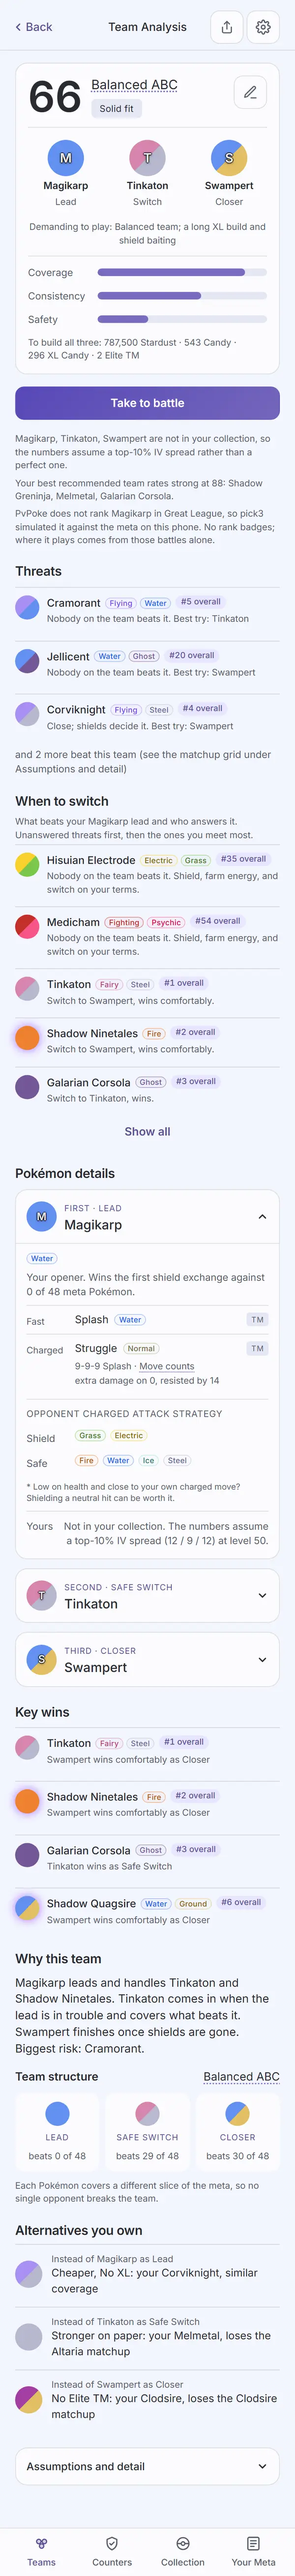
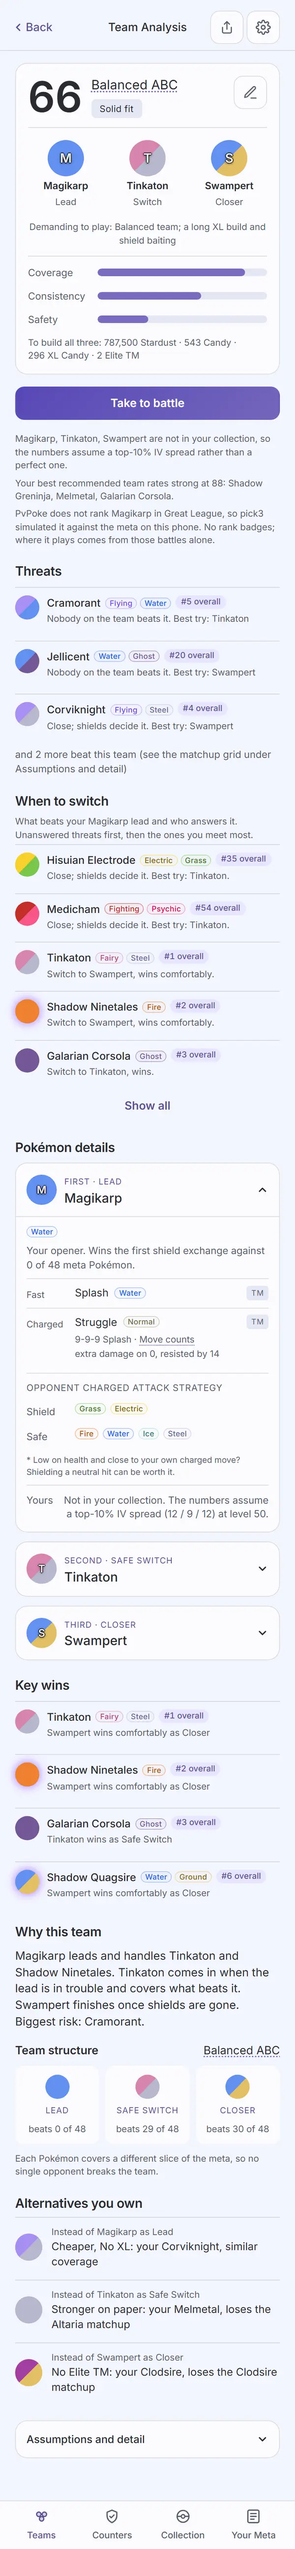
Design: record one meaning of unanswered on Team Analysis
analysis.md (still unsigned): a findings row for the two readings of
"unanswered" and its resolution in 0c42a35, When to switch's close lines in
the 14, 14b and 14c table rows, the renamed engine test file, and the fresh
check results. Re-converted 14-custom-team, 14b-custom-unranked and
14c-shared-team from the new web:audit run; every other Team Analysis and
Teams capture converted byte for byte identical.

Claude-Session: https://claude.ai/code/session_01QpDSW9ZhLWToL3VMBP1mJq

diff --git a/docs/design/audits/analysis.md b/docs/design/audits/analysis.md
@@ -31,7 +31,7 @@ full-page pairs and `analysis-confirm` changed with the revision and were re-con
 `analysis-not-found` re-converted byte for byte identical to the earlier image. The final fix
 wave (after the final review) re-ran `web:audit` and re-converted `14-custom-team`,
 `14b-custom-unranked` and `14c-shared-team` (the Threats order, the count's pointer to the
-matchup grid, and "Biggest risk" under Why this team); `03-team-detail`, `analysis-confirm` and
+matchup grid, "Biggest risk" under Why this team, and When to switch's close lines); `03-team-detail`, `analysis-confirm` and
 `analysis-not-found` re-converted byte for byte identical and were left as they were. `03-team-detail`,
 `14-custom-team`, `14b-custom-unranked` and `14c-shared-team` are full-page shots
 (`captureBeyondViewport: false`, the same rule Teams and Build use so the fixed tab bar lands at
@@ -41,9 +41,9 @@ hero card; a short Empty state).
 | State | Dark | Light |
 | --- | --- | --- |
 | `03-team-detail`: a recommended team. The hero card: "88" alone, the "Balanced ABC" term and the "Strong fit" tag beside it, the Edit pencil; Shadow Greninja and Galarian Corsola on two lines each, Melmetal on one, the three roles on one line; the difficulty line; five bars (Coverage, Consistency, Safety, Affordable empty, Accessibility). Take to battle under the card; Threats (one row, Hisuian Electrode, no count: nothing else beats the whole team); When to switch (five rows, none repeating Hisuian Electrode, then Show all); Pokémon details with the lead open and its "+1 more"; Key wins as rows; Why this team with the Team structure tiles and no breakdown sentence; Alternatives; Assumptions open with the matchup grid (full page) | ![](img/03-team-detail-dark.webp) | ![](img/03-team-detail-light.webp) |
-| `14-custom-team`: a hand-built team of species you don't own. Three bars and "To build all three: 723,500 Stardust · 593 Candy · 182 XL Candy · 2 Elite TM." inside the card; under Take to battle the hypothetical-IV note, the best-recommended-team note and the chosen-moves note; Threats with the two nobody on the team beats first (Cramorant #5, Jellicent #20), then the close one (Corviknight #4, "Close; shields decide it"), and "and 1 more beats this team (see the matchup grid under Assumptions and detail)"; Why this team ends "Biggest risk: Cramorant." (full page) | ![](img/14-custom-team-dark.webp) | ![](img/14-custom-team-light.webp) |
-| `14b-custom-unranked`: a custom team led by Magikarp, the PvPoke-unranked note ("PvPoke does not rank Magikarp in Great League...") in the same notes block; Threats in the same order as `14-custom-team` (Cramorant, Jellicent, then Corviknight) and "and 2 more beat this team (see the matchup grid under Assumptions and detail)" (full page) | ![](img/14b-custom-unranked-dark.webp) | ![](img/14b-custom-unranked-light.webp) |
-| `14c-shared-team`: a team opened from a link, "Shared team link. IVs assumed for Azumarill, Tinkaton; the rest are yours." first in the notes block; Threats lists the two nobody on the team beats (Corviknight #4, Jellicent #20), then the close Cramorant (#5), and "and 1 more beats this team (see the matchup grid under Assumptions and detail)", the one being the close Feraligatr (#19), which Jellicent displaced from the three; When to switch now starts at Feraligatr, since Jellicent is under Threats (full page) | ![](img/14c-shared-team-dark.webp) | ![](img/14c-shared-team-light.webp) |
+| `14-custom-team`: a hand-built team of species you don't own. Three bars and "To build all three: 723,500 Stardust · 593 Candy · 182 XL Candy · 2 Elite TM." inside the card; under Take to battle the hypothetical-IV note, the best-recommended-team note and the chosen-moves note; Threats with the two nobody on the team beats first (Cramorant #5, Jellicent #20), then the close one (Corviknight #4, "Close; shields decide it"), and "and 1 more beats this team (see the matchup grid under Assumptions and detail)"; When to switch opens with Hisuian Electrode, "Close; shields decide it. Best try: Tinkaton." (the same meaning as Threats: nobody wins it, Tinkaton keeps it close); Why this team ends "Biggest risk: Cramorant." (full page) | ![](img/14-custom-team-dark.webp) | ![](img/14-custom-team-light.webp) |
+| `14b-custom-unranked`: a custom team led by Magikarp, the PvPoke-unranked note ("PvPoke does not rank Magikarp in Great League...") in the same notes block; Threats in the same order as `14-custom-team` (Cramorant, Jellicent, then Corviknight) and "and 2 more beat this team (see the matchup grid under Assumptions and detail)"; When to switch opens with Hisuian Electrode and Medicham, both "Close; shields decide it. Best try: Tinkaton." (full page) | ![](img/14b-custom-unranked-dark.webp) | ![](img/14b-custom-unranked-light.webp) |
+| `14c-shared-team`: a team opened from a link, "Shared team link. IVs assumed for Azumarill, Tinkaton; the rest are yours." first in the notes block; Threats lists the two nobody on the team beats (Corviknight #4, Jellicent #20), then the close Cramorant (#5), and "and 1 more beats this team (see the matchup grid under Assumptions and detail)", the one being the close Feraligatr (#19), which Jellicent displaced from the three; When to switch now starts at Feraligatr, since Jellicent is under Threats, with "Close; shields decide it. Best try: Azumarill." (the lead comes closest, as the key threats read it) (full page) | ![](img/14c-shared-team-dark.webp) | ![](img/14c-shared-team-light.webp) |
 | `analysis-confirm`: Take to battle while Feraligatr, Morpeko, Galarian Stunfisk (3 logged) is running; the `ConfirmSheet` "Switch teams?" over the hero card, Keep it and Switch | ![](img/analysis-confirm-dark.webp) | ![](img/analysis-confirm-light.webp) |
 | `analysis-not-found`: "This team is not in the current results. Filters may have changed." with a "Back to teams" button | ![](img/analysis-not-found-dark.webp) | ![](img/analysis-not-found-light.webp) |
 
@@ -75,8 +75,9 @@ after Build's Find best order (every captured custom team was analyzed in the or
       `analysis-not-found`), in both themes, and on the nine enforced Teams screens, whose rows
       changed. 838 findings remain on screens not yet redesigned (the same count as before the
       revision), none failing the run. Re-run again for the final fix wave (2026-09-26, after
-      `945ac03`): exit 0, zero findings on the same fifteen enforced screens in both themes, 838
-      on screens not yet redesigned, no "Browser errors" section.
+      `945ac03`, and once more after `0c42a35`): exit 0 both times, zero findings on the same
+      fifteen enforced screens in both themes, 838 on screens not yet redesigned, no "Browser
+      errors" section.
 - [x] the run's own guards, all passed in this run (`apps/web/scripts/screens.mjs`, updated for the
       revision's markup):
   - `assertTitleCentred('team analysis')` holds on the Team Analysis header;
@@ -112,8 +113,8 @@ after Build's Find best order (every captured custom team was analyzed in the or
     (Task 5's I2 fix: the toggle left the chip flow).
 - [x] no console errors: the run printed no "Browser errors" section.
 - [x] `npm run lint`, `npm run typecheck`, `npm test`, `npm run check-colors`, `npm run
-      check-tokens`, all run 2026-09-26 after the final fix wave's last code commit (`945ac03`):
-      lint exit 0; typecheck exit 0 across all seven workspaces; `npm test` 134 files, 1,189
+      check-tokens`, all run 2026-09-26 after the final fix wave's last code commit (`0c42a35`):
+      lint exit 0; typecheck exit 0 across all seven workspaces; `npm test` 134 files, 1,193
       tests passed; `check-colors` exit 0 (baseline untouched); `check-tokens`: ok.
 - [x] `npm run ui:audit` re-run 2026-09-26 for the final fix wave: exit 0, "gallery audit: clean
       in dark and light". `npm run meta:screens` was not re-run: nothing under `packages/ui` or
@@ -320,9 +321,12 @@ after Build's Find best order (every captured custom team was analyzed in the or
       Battle plan or jump row, the strip and its reduced-motion branch, Take to battle in all
       three running-set cases, Edit team for a recommended and a hand-built team, Back with and
       without history, the team-link describe block),
-      `packages/engine/test/explain/keyThreats.test.ts` (key threats: the unanswered ones first
+      `packages/engine/test/explain/explain.test.ts` (key threats: the unanswered ones first
       and kept over close ones that outrank them, meta rank first within each group, "Biggest
-      risk" naming the first),
+      risk" naming the first; the switch plan: a lead loss nobody wins reads "Close; shields
+      decide it. Best try: ..." in the close band, the lead included when it comes closest, and
+      "Nobody on the team beats it. ..." under it, the unanswered listed first, then the close
+      ones, then the ones with a switch),
       `apps/web/test/teamComponents.test.tsx` (the Teams row's number line),
       `apps/web/test/history.test.ts` (`replaceEntry`), `apps/web/test/format.test.ts`
       (`costParts`), `apps/web/test/shadowToken.test.tsx` (the token-wrapper alignment fix),
@@ -365,7 +369,7 @@ after Build's Find best order (every captured custom team was analyzed in the or
    renders that order as is. [Cost if wrong: one sort in `explain.ts`.] Before, it kept the
    three highest-ranked non-wins, so a close threat sat above unanswered ones and could push one
    into "and N more" (`14c-shared-team` listed the close Feraligatr and counted the unanswered
-   Jellicent). `f05e48c`; `keyThreats.test.ts` pins the selection and the order. Because
+   Jellicent). `f05e48c`; `explain.test.ts` (first named `keyThreats.test.ts`) pins the selection and the order. Because
    `explanation.why`'s "Biggest risk: X" names the first key threat, it can now name a
    different Pokémon, on this page and on Teams' open rows (intended): `14-custom-team` and
    `14b-custom-unranked` now say "Biggest risk: Cramorant." where they said Corviknight. No
@@ -466,10 +470,11 @@ stands.
 | Revision, Task 4, seen in the captures (both themes): (1) in the strip, Melmetal's one-line name beside two two-line names left "Switch" a line above "Lead" and "Closer"; (2) the Pokémon section was titled "Your Pokémon" again, over rows that say "Not in your collection" on every custom capture, the first pass's M3 finding reintroduced (the spec calls it "Pokémon details"); (3) "and 1 more beat this team" on `14-custom-team` and `14c-shared-team`; (4) on Teams, the number made the row line longer, and "251,420 Stardust" broke between the number and its unit on the Zweilous row. | (1) Each strip member spans the strip's three rows as a CSS subgrid, so names align at the top and the roles share one line; (2) "Pokémon details", with the order test following it; (3) "beats" when N is 1, a new Threats test; (4) the row's Stardust uses `format.ts`'s `amount()` (now exported), the non-breaking join every cost line already used, with the row test requiring it. | `67ecbdd` |
 | Revision final review I1 (a controller ruling): "and N more beat this team" was a bare count, though the spec's Threats bullet says the count points to the matchup grid (this record's former open item). | The line ends "(see the matchup grid under Assumptions and detail)", singular and plural; the two count tests pin the full strings. Seen in `14-custom-team`, `14b-custom-unranked` and `14c-shared-team`, both themes. | `4b54d79` |
 | Revision final review I3: the count read `score.uncoveredOpponents` as is, so a species the meta group lists twice (Great and the Championship Series carry Shadow Forretress and Shadow Quagsire twice) counted twice, and an outsider from Your meta counted though the grid never shows it, which would make I1's pointer false. | `Threats` takes the grid's deduplicated ids (`gridIds`, the same `opps` the matchup grid draws) and counts unique beaten species in the grid that are not already listed. Tests: a repeated id counts once; an id outside the grid does not count, and alone gives no line; "3 more" still reads 3. | `414e21b` |
-| Revision final review I4, with the controller's ruling on selection: Threats were ordered by meta rank only, so "Close; shields decide it" sat above "Nobody on the team beats it" (Corviknight over Cramorant and Jellicent in `14-custom-team` and `14b-custom-unranked`), and in `14c-shared-team` an unanswered Jellicent (#20) fell into the count behind two close threats. | `explainTeam` keeps the unanswered key threats first, then the close ones, meta rank first within each, at most three (Ruling 6); `Threats` renders the engine's order. No `rating` field was added to `KeyMatchup`: the UI does not need one once the engine orders. `keyThreats.test.ts`: an unanswered threat ranked below three close ones is kept and listed first, "Biggest risk" names it; unanswered ones before close ones, rank order within each. | `f05e48c` |
+| Revision final review I4, with the controller's ruling on selection: Threats were ordered by meta rank only, so "Close; shields decide it" sat above "Nobody on the team beats it" (Corviknight over Cramorant and Jellicent in `14-custom-team` and `14b-custom-unranked`), and in `14c-shared-team` an unanswered Jellicent (#20) fell into the count behind two close threats. | `explainTeam` keeps the unanswered key threats first, then the close ones, meta rank first within each, at most three (Ruling 6); `Threats` renders the engine's order. No `rating` field was added to `KeyMatchup`: the UI does not need one once the engine orders. `keyThreats.test.ts` (now `explain.test.ts`): an unanswered threat ranked below three close ones is kept and listed first, "Biggest risk" names it; unanswered ones before close ones, rank order within each. | `f05e48c` |
 | Revision final review I2 (a controller ruling): Teams' open-row strip dropped roles onto different lines when some names wrapped (this record's former open item; Teams' own finding). | The same subgrid as this page's strip, scoped to `.team-body .slots3` in `app.css`; recorded as an "After sign-off" row in `teams.md` with its re-converted captures. | `6571697` |
 | Revision final review M1: this record still asked Travis to choose the section order, though `ae87f83` wrote the shipped order into the spec. | The open item is dropped: the spec now lists the shipped order (Threats, When to switch, Pokémon details, Key wins, Why this team), and the order test pins it. The I1 and I2 open items are closed by the rows above. | this record's commit |
 | Revision final review M2 to M6: the reduced-motion branch of `scrollToId` lost its only test with the jump row (M2); no test for the pencil on a hand-built team (M3); the hero number was read bare, "88", by a screen reader (M4); prettier drift in two hunks this branch added (M5); nothing in the browser run counted the hero card's bars (M6). | M2: a strip tap under a stubbed `(prefers-reduced-motion: reduce)` scrolls with `behavior: 'auto'`, and `'smooth'` once restubbed. M3: `mountCustom`, Edit team, `#/build` with the same picks object. M4: a `.vh` "Battle strength " before `.hero-num`, outside it, so the region reads "Battle strength 88" and `.hero-num` stays "88" alone (a new ScoreCard test). M5: `prettier --write` on `Threats.tsx` and `teamDetail.test.tsx`. M6: `screens.mjs` requires five meters after the pencil step's reload and three in the custom step, throwing with the count; both held in this run. The M2 and M3 tests were each checked against a broken build (smooth always; the custom pencil reloading its picks) and failed there. | `945ac03` |
+| Seen in the fix wave's own captures, ruled by the controller: "unanswered" meant two things. Threats called an opponent close when the team's best rating was 450 or more, while When to switch said "Nobody on the team beats it" whenever no slot won a lead loss, so the same opponent read both ways: Hisuian Electrode in `14-custom-team`, Hisuian Electrode and Medicham in `14b-custom-unranked`, Feraligatr in `14c-shared-team` (close under Threats' rules, "Nobody on the team beats it" under When to switch). | One meaning in `explain.ts`: a lead loss nobody wins reads like the threat line when the best slot on the whole team (as the key threats pick it, the lead included) rates it 450 or more, "Close; shields decide it. Best try: <that Pokémon>."; under that it stays "Nobody on the team beats it. Shield, farm energy, and switch on your terms." One constant, `CLOSE_RATING`, holds the 450 for both. The plan now sorts the unanswered first, then the close ones nobody wins, then the ones with a switch, so the intro ("Unanswered threats first") stays true. Four switch-plan tests in `explain.test.ts`. Seen in the re-converted 14, 14b and 14c (both themes). The switch line ends with a period and the Threats line does not, as each did before. | `0c42a35` |
 
 ## Visible changes outside Team Analysis
 
